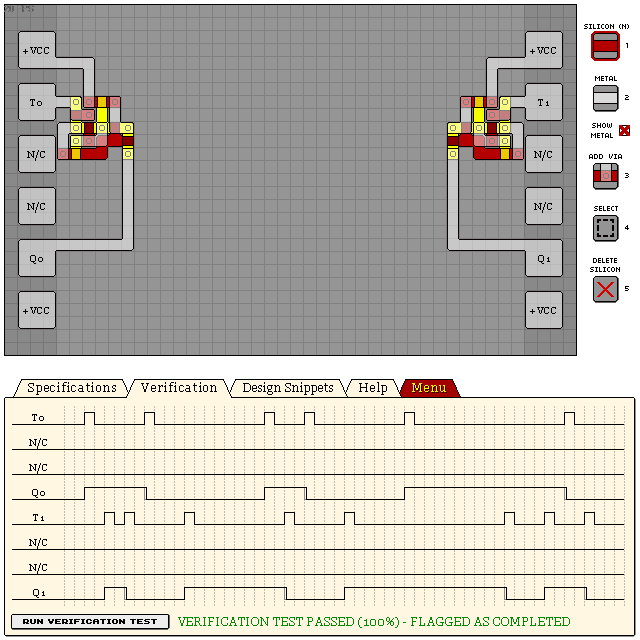
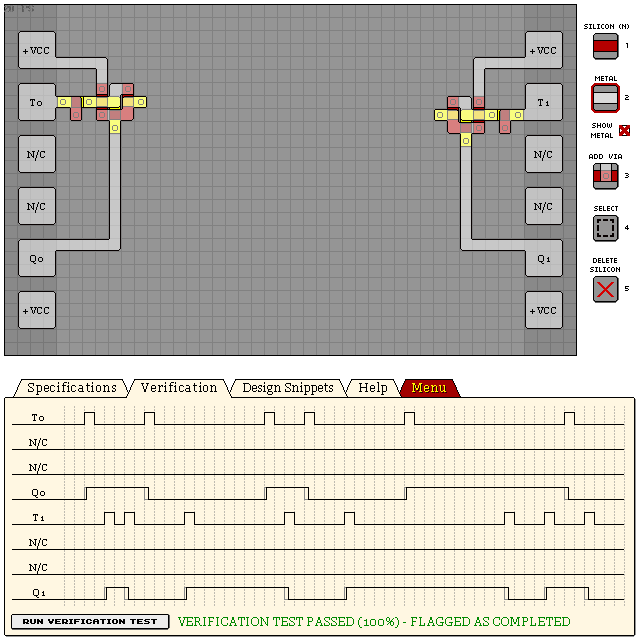
KL2T1 better design score

diff --git a/levels/07 KL2T1 DUAL TOGGLE LATCH.md b/levels/07 KL2T1 DUAL TOGGLE LATCH.md
@@ -1,6 +1,24 @@
 # KL2T1 - DUAL TOGGLE LATCH
 
 - Verification: Passed (100%)
+- Design Score: 94
+
+```
[6 lines of base64/hex data omitted]
+nt1w0Zg17i6q1I92GtlVqn1hqsqvf0BQlaQUqSbS3EwBEPlYYDtGegL0NccR
+```
+
+![07 KL2T1 DUAL TOGGLE LATCH](./assets/07.png)
+
+
+## Old design
+
+- Verification: Passed (100%)
 - Design Score: 114
 
 ```
@@ -16,7 +34,7 @@ bZalfFuTyrIdJXjBWm86wyv9A6jxdtKEZywQbxniJIJkIcqNGy2PohyU+ZvkflQ3
 Ad5Nx8U=
 ```
 
-![07 KL2T1 DUAL TOGGLE LATCH](./assets/07.png)
+![07 KL2T1 DUAL TOGGLE LATCH](./assets/07-old.png)
 
 ## See Also
 
